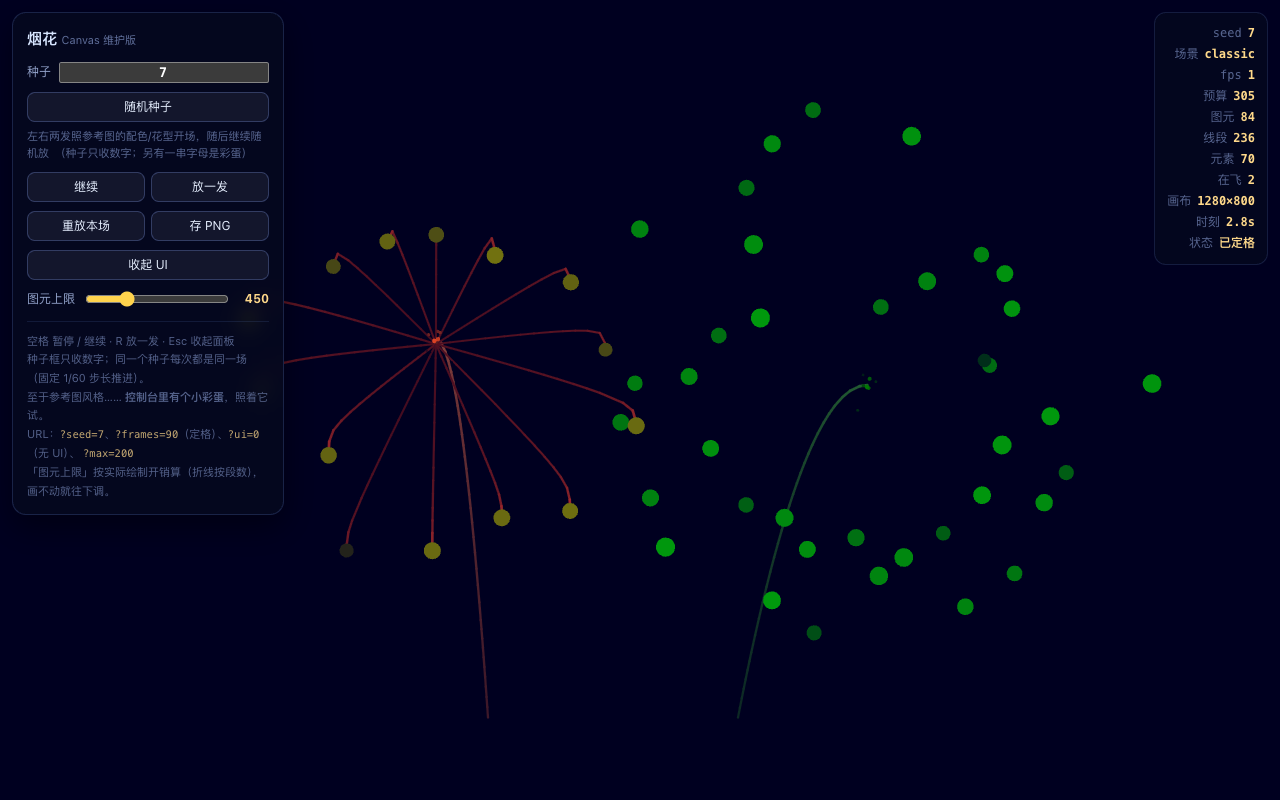
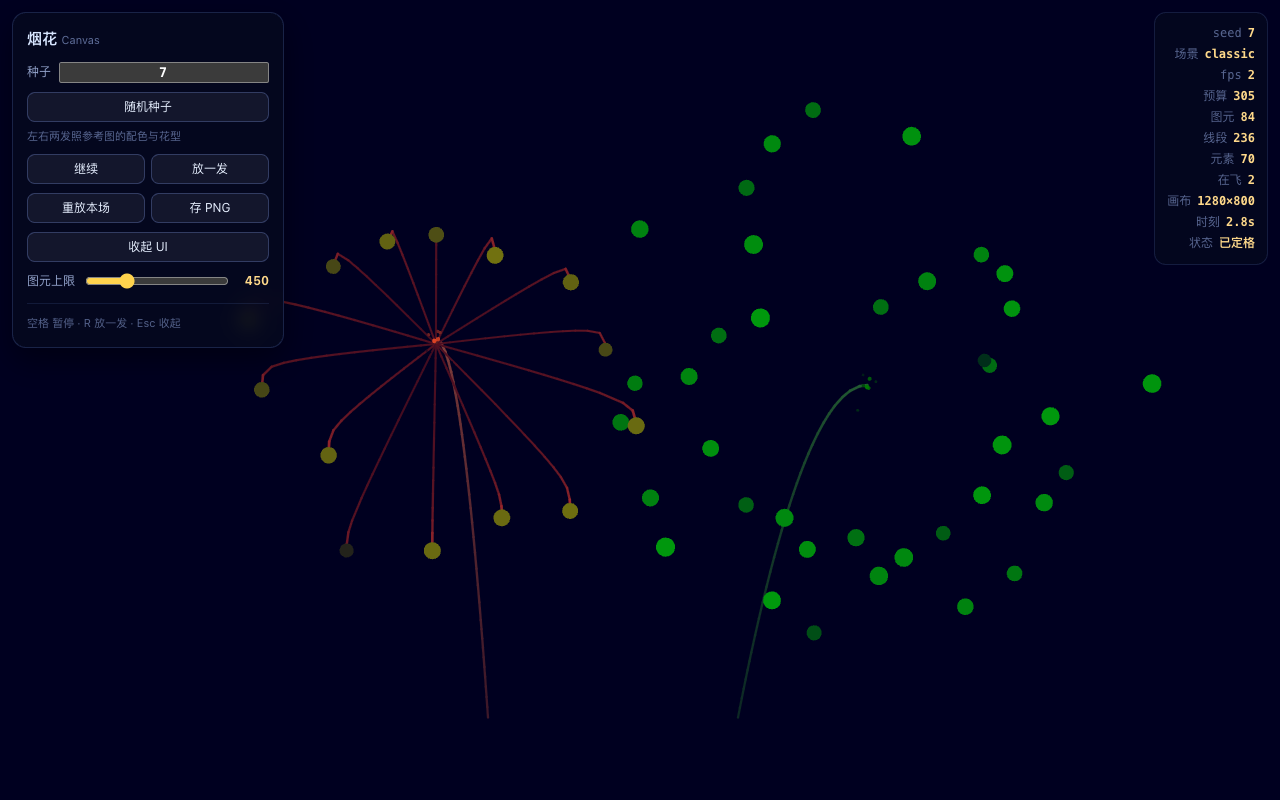
polish: 那个词换成 FIREWORKS；重写并简化文案，不再明说"彩蛋"
- SECRET 改为 FIREWORKS（9 个字母）。提示语里的字母个数是从 SECRET.length 算的，
  测试也从源码里读，所以换词不用改别处。
- 文案重写：把"彩蛋"这层意思从界面与控制台里拿掉，改成随手留的便条口吻。
    控制台：烟花 · Canvas / seed 812934 /
            「种子框只收数字。有一个 9 个字母的词是例外 —— 这里正在放的那个，
              一个一个敲试试。」
    解锁时只打一行「FIREWORKS —— 参考图风格」，不再"🎉 已解锁"。
- 面板瘦身：标题回到「烟花 Canvas」，删掉 URL 参数清单、绘制预算解释与彩蛋提示，
  提示只剩一行「空格 暂停 · R 放一发 · Esc 收起」；场景说明也压缩成一句。
- README 相应重写并收短（173 → 151 行），去掉重复的"彩蛋"叙述，参数与目录更紧凑。
  仍然不写出那个词。
- 校验同步：browser_check 的用例与断言改为从 src/app.js 读那个词（不再写死），
  控制台断言改为"提了字母个数、没写出那个词"；标签从"控制台彩蛋"改成"控制台便条"。

Changed region(s): [[0.0, 0.1562, 0.2188, 0.5], [0.0, 0.5312, 0.1875, 0.625], [0.0625, 0.0312, 0.0938, 0.0625]]

diff --git a/dist/turtle_fireworks.html b/dist/turtle_fireworks.html
@@ -89,7 +89,7 @@
 <canvas id="stage"></canvas>
 
 <aside id="panel">
-  <h1>烟花<span>Canvas 维护版</span></h1>
+  <h1>烟花<span>Canvas</span></h1>
 
   <label>种子
     <input id="seed" type="text" maxlength="16" autocomplete="off" spellcheck="false">
@@ -117,13 +117,7 @@
   </label>
 
   <p class="hint">
-    空格 暂停 / 继续 · R 放一发 · Esc 收起面板<br>
-    种子框<span title="试试往里面敲字母">只收数字</span>；同一个种子每次都是同一场
-    （固定 1/60 步长推进）。<br>
-    至于参考图风格…… <b>控制台里有个小彩蛋</b>，照着它试。<br>
-    URL：<code>?seed=7</code>、<code>?frames=90</code>（定格）、<code>?ui=0</code>（无 UI）、
-    <code>?max=200</code><br>
-    「图元上限」按实际绘制开销算（折线按段数），画不动就往下调。
+    空格 暂停 · R 放一发 · Esc 收起
   </p>
 </aside>
 
@@ -1266,16 +1260,16 @@ setTimeout(function () {
   var DT_CLAMP = 0.06;                   // 单帧最多推进 60ms（同原版）
 
   var SCENES = {
-    classic: ['参考图风格', '左右两发照参考图的配色/花型开场，随后继续随机放'],
-    random: ['纯随机', '全部程序化随机生成的一场烟花秀']
+    classic: ['参考图风格', '左右两发照参考图的配色与花型'],
+    random: ['纯随机', '配色、花型、位置全随机']
   };
 
   /**
-   * 彩蛋密语。种子框**正常只收数字**；字母必须一个字符一个字符敲对才留得下来，
-   * 所以"试探每个字母"本身就是找彩蛋的过程（敲错了那个字符根本进不去）。
-   * 想换彩蛋就改这一行 —— 提示语里的字母个数会自动跟着变。
+   * 种子框只认这一个词。正常只收数字，字母必须一个字符一个字符敲对才留得下来
+   * （敲错的当场被弹回去），所以"一个一个字母试"本身就有反馈。
+   * 换词就改这一行 —— 提示语里的字母个数会自动跟着变。
    */
-  var SECRET = 'TURTLE';
+  var SECRET = 'FIREWORKS';
 
   /** 种子框允许的内容：全数字，或者密语的正确前缀（含空串）。 */
   function seedContentOk(text) {
@@ -1509,10 +1503,7 @@ setTimeout(function () {
     $('budget').value = this.maxGeos;
     $('budget-val').textContent = this.maxGeos;
     $('pause').textContent = this.paused ? '继续' : '暂停';
-    $('scene-help').textContent = SCENES[this.scene][1]
-      + (this.secretFound
-         ? '　🎉 密语已解锁'
-         : '　（种子只收数字；另有一串字母是彩蛋）');
+    $('scene-help').textContent = SCENES[this.scene][1];
     document.title = '烟花 · seed ' + this.seed + ' · ' + this.scene;
     this.applyUiVisibility();
     this.hud();
@@ -1544,9 +1535,9 @@ setTimeout(function () {
   /* --------------------------------------------------------------- 交互 */
 
   /**
-   * 种子框的"逐字符"守卫：正常只收数字；字母只有当它正好接上密语时才留得下来，
-   * 敲错了就当场退回上一个合法内容并抖一下 —— 所以"试探每个字母"是有反馈的，
-   * 找彩蛋就是这么一个字母一个字母试出来的。粘贴也走同一条校验。
+   * 种子框的"逐字符"守卫：正常只收数字；字母只有当它正好接上那个词时才留得下来，
+   * 敲错了就当场退回上一个合法内容并抖一下 —— 所以"一个一个字母试"是有反馈的。
+   * 粘贴也走同一条校验。
    */
   FW.app.App.prototype.bindSeedInput = function () {
     var self = this;
@@ -1556,7 +1547,7 @@ setTimeout(function () {
 
     input.addEventListener('input', function () {
       var text = this.value.toUpperCase();
-      if (!FW.app.seedContentOk(text)) {          // 不是数字、也不是密语的前缀
+      if (!FW.app.seedContentOk(text)) {          // 既不是数字，也不是那个词的前缀
         this.value = lastValid;
         this.classList.remove('reject');
         void this.offsetWidth;                    // 强制重排，动画才会重播
@@ -1567,10 +1558,9 @@ setTimeout(function () {
       }
       lastValid = text;
       this.value = text;
-      if (text === FW.app.SECRET) {               // 敲全了：立刻解锁参考图风格
+      if (text === FW.app.SECRET) {               // 拼全了：换成参考图风格
         self.rebuild(undefined, text);
-        console.log('%c🎉 彩蛋找到了：' + FW.app.SECRET + ' —— 参考图风格已解锁',
-                    'color:#ffd34d;font-weight:700');
+        console.log('%c' + FW.app.SECRET + ' —— 参考图风格', 'color:#ffd34d;font-weight:700');
       }
     });
 
@@ -1622,24 +1612,18 @@ setTimeout(function () {
   /* --------------------------------------------------------------- 启动 */
 
   /**
-   * 控制台彩蛋的引子：说清"种子只收数字"，并给一个**不解谜**的提示（只报字母个数，
-   * 不报内容）—— 剩下的靠往种子框里一个字母一个字母试。
+   * 控制台里那张便条：只交代"种子框认数字"，顺口提一句那个词有几个字母，
+   * 不点破是哪个词（剩下的靠往种子框里一个一个字母试，敲错了会被弹回来）。
    */
-  function consoleEgg(app) {
+  function consoleNote(app) {
     var gold = 'color:#ffd34d;font-weight:600';
     var cyan = 'color:#7fd1ff;font-weight:600';
-    console.log('%c烟花 · Canvas 维护版', gold);
-    console.log('本场 seed: %c' + app.seed + '%c  （数字种子 → 纯随机秀）',
-                cyan, 'color:inherit');
-    if (app.secretFound) {
-      console.log('%c彩蛋已解锁：参考图风格', gold);
-      return;
-    }
-    console.log('彩蛋：种子框正常只收数字。不过有一串 %c' + FW.app.SECRET.length
-      + ' 个字母%c的词能打开参考图风格。',
+    console.log('%c烟花 · Canvas', gold);
+    console.log('seed %c' + app.seed, cyan);
+    if (app.secretFound) return;
+    console.log('种子框只收数字。有一个 %c' + FW.app.SECRET.length
+      + ' 个字母%c的词是例外 —— 这里正在放的那个，一个一个敲试试。',
       'color:#ffd34d', 'color:inherit');
-    console.log('　往种子里一个字母一个字母地敲：%c敲对了会留下来，敲错了会被弹回来%c。'
-      + '（提示：这一版的原版，是拿它画的）', 'color:#9ad', 'color:inherit');
   }
 
   function boot() {
@@ -1649,7 +1633,7 @@ setTimeout(function () {
     });
     FW.app.instance = inst;
     inst.start();
-    consoleEgg(inst);
+    consoleNote(inst);
   }
 
   if (document.readyState === 'loading') {

diff --git a/src/ui.js b/src/ui.js
@@ -38,10 +38,7 @@
     $('budget').value = this.maxGeos;
     $('budget-val').textContent = this.maxGeos;
     $('pause').textContent = this.paused ? '继续' : '暂停';
-    $('scene-help').textContent = SCENES[this.scene][1]
-      + (this.secretFound
-         ? '　🎉 密语已解锁'
-         : '　（种子只收数字；另有一串字母是彩蛋）');
+    $('scene-help').textContent = SCENES[this.scene][1];
     document.title = '烟花 · seed ' + this.seed + ' · ' + this.scene;
     this.applyUiVisibility();
     this.hud();
@@ -73,9 +70,9 @@
   /* --------------------------------------------------------------- 交互 */
 
   /**
-   * 种子框的"逐字符"守卫：正常只收数字；字母只有当它正好接上密语时才留得下来，
-   * 敲错了就当场退回上一个合法内容并抖一下 —— 所以"试探每个字母"是有反馈的，
-   * 找彩蛋就是这么一个字母一个字母试出来的。粘贴也走同一条校验。
+   * 种子框的"逐字符"守卫：正常只收数字；字母只有当它正好接上那个词时才留得下来，
+   * 敲错了就当场退回上一个合法内容并抖一下 —— 所以"一个一个字母试"是有反馈的。
+   * 粘贴也走同一条校验。
    */
   FW.app.App.prototype.bindSeedInput = function () {
     var self = this;
@@ -85,7 +82,7 @@
 
     input.addEventListener('input', function () {
       var text = this.value.toUpperCase();
-      if (!FW.app.seedContentOk(text)) {          // 不是数字、也不是密语的前缀
+      if (!FW.app.seedContentOk(text)) {          // 既不是数字，也不是那个词的前缀
         this.value = lastValid;
         this.classList.remove('reject');
         void this.offsetWidth;                    // 强制重排，动画才会重播
@@ -96,10 +93,9 @@
       }
       lastValid = text;
       this.value = text;
-      if (text === FW.app.SECRET) {               // 敲全了：立刻解锁参考图风格
+      if (text === FW.app.SECRET) {               // 拼全了：换成参考图风格
         self.rebuild(undefined, text);
-        console.log('%c🎉 彩蛋找到了：' + FW.app.SECRET + ' —— 参考图风格已解锁',
-                    'color:#ffd34d;font-weight:700');
+        console.log('%c' + FW.app.SECRET + ' —— 参考图风格', 'color:#ffd34d;font-weight:700');
       }
     });
 
@@ -151,24 +147,18 @@
   /* --------------------------------------------------------------- 启动 */
 
   /**
-   * 控制台彩蛋的引子：说清"种子只收数字"，并给一个**不解谜**的提示（只报字母个数，
-   * 不报内容）—— 剩下的靠往种子框里一个字母一个字母试。
+   * 控制台里那张便条：只交代"种子框认数字"，顺口提一句那个词有几个字母，
+   * 不点破是哪个词（剩下的靠往种子框里一个一个字母试，敲错了会被弹回来）。
    */
-  function consoleEgg(app) {
+  function consoleNote(app) {
     var gold = 'color:#ffd34d;font-weight:600';
     var cyan = 'color:#7fd1ff;font-weight:600';
-    console.log('%c烟花 · Canvas 维护版', gold);
-    console.log('本场 seed: %c' + app.seed + '%c  （数字种子 → 纯随机秀）',
-                cyan, 'color:inherit');
-    if (app.secretFound) {
-      console.log('%c彩蛋已解锁：参考图风格', gold);
-      return;
-    }
-    console.log('彩蛋：种子框正常只收数字。不过有一串 %c' + FW.app.SECRET.length
-      + ' 个字母%c的词能打开参考图风格。',
+    console.log('%c烟花 · Canvas', gold);
+    console.log('seed %c' + app.seed, cyan);
+    if (app.secretFound) return;
+    console.log('种子框只收数字。有一个 %c' + FW.app.SECRET.length
+      + ' 个字母%c的词是例外 —— 这里正在放的那个，一个一个敲试试。',
       'color:#ffd34d', 'color:inherit');
-    console.log('　往种子里一个字母一个字母地敲：%c敲对了会留下来，敲错了会被弹回来%c。'
-      + '（提示：这一版的原版，是拿它画的）', 'color:#9ad', 'color:inherit');
   }
 
   function boot() {
@@ -178,7 +168,7 @@
     });
     FW.app.instance = inst;
     inst.start();
-    consoleEgg(inst);
+    consoleNote(inst);
   }
 
   if (document.readyState === 'loading') {

diff --git a/tools/browser_check.js b/tools/browser_check.js
@@ -47,7 +47,7 @@ const DIST_CASES = [
   { name: 'classic 第1帧', q: 'scene=classic&seed=7&still=1&w=924&h=691', time: 0, segs: false, scene: 'classic' },
   // 彩蛋规则：数字种子 -> 纯随机秀；敲对密语 -> 参考图风格；乱敲的字母 -> 不认
   { name: '数字种子→纯随机', q: 'seed=7&still=1&w=924&h=691', time: 0, segs: false, scene: 'random' },
-  { name: '密语→参考图风格', q: 'seed=TURTLE&still=1&w=924&h=691', time: 0, segs: false, scene: 'classic' },
+  { name: '那个词→参考图风格', q: 'seed=' + readSecret() + '&still=1&w=924&h=691', time: 0, segs: false, scene: 'classic' },
   { name: '乱敲字母→退回数字', q: 'seed=KQXW&still=1&w=924&h=691', time: 0, segs: false, scene: 'random' },
   { name: 'classic 第150帧', q: 'scene=classic&seed=7&frames=150&w=924&h=691', time: 149 * DT, segs: true },
   { name: 'random 第150帧', q: 'scene=random&seed=42&frames=150&w=924&h=691', time: 149 * DT, segs: true },
@@ -232,14 +232,14 @@ async function checkDev(bin) {
     bad += r.problems.length;
     report('开发页出画面', r);
 
-    // B3) 控制台彩蛋：只给"有几个字母"的提示，**不能**泄露密语本身
-    const SECRET = JSON.parse(fs.readFileSync(MANIFEST, 'utf8')) && readSecret();
+    // B3) 控制台便条：只给"有几个字母"，**不能**把那个词本身打出来
+    const SECRET = readSecret();
     const num = await dumpDom(bin, BASE + '/?seed=7&frames=30&w=924&h=691');
-    const numOk = /彩蛋/.test(num.log) && new RegExp(SECRET.length + ' 个字母').test(num.log)
+    const numOk = new RegExp(SECRET.length + ' 个字母').test(num.log)
       && !num.log.includes(SECRET);
     bad += numOk ? 0 : 1;
-    line(numOk, '控制台彩蛋(数字种子)',
-         numOk ? `给了"${SECRET.length} 个字母"的提示、没泄露密语` : '提示不符合预期或泄露了密语');
+    line(numOk, '控制台便条',
+         numOk ? `提了"${SECRET.length} 个字母"、没写出那个词` : '文案不符合预期或写出了那个词');
     if (!numOk) console.log('        ' + consoleLines(num.log));
 
     // B4) 逐字符守卫：在真浏览器里一个字母一个字母敲（夹具页驱动，不用 CDP）
@@ -249,9 +249,9 @@ async function checkDev(bin) {
     bad += okTyping ? 0 : 1;
     if (okTyping) {
       const detail = JSON.parse(m[1].replace(/^probe-ok\s*/, ''));
-      line(true, '逐字符敲密语', detail.steps.join('；'));
+      line(true, '逐字符拼词', detail.steps.join('；'));
     } else {
-      line(false, '逐字符敲密语',
+      line(false, '逐字符拼词',
            m ? JSON.parse(m[1].replace(/^probe-fail\s*/, '')).problems.join('；') : '夹具页没给出结果');
     }
   } finally {

diff --git a/src/app.js b/src/app.js
@@ -17,16 +17,16 @@
   var DT_CLAMP = 0.06;                   // 单帧最多推进 60ms（同原版）
 
   var SCENES = {
-    classic: ['参考图风格', '左右两发照参考图的配色/花型开场，随后继续随机放'],
-    random: ['纯随机', '全部程序化随机生成的一场烟花秀']
+    classic: ['参考图风格', '左右两发照参考图的配色与花型'],
+    random: ['纯随机', '配色、花型、位置全随机']
   };
 
   /**
-   * 彩蛋密语。种子框**正常只收数字**；字母必须一个字符一个字符敲对才留得下来，
-   * 所以"试探每个字母"本身就是找彩蛋的过程（敲错了那个字符根本进不去）。
-   * 想换彩蛋就改这一行 —— 提示语里的字母个数会自动跟着变。
+   * 种子框只认这一个词。正常只收数字，字母必须一个字符一个字符敲对才留得下来
+   * （敲错的当场被弹回去），所以"一个一个字母试"本身就有反馈。
+   * 换词就改这一行 —— 提示语里的字母个数会自动跟着变。
    */
-  var SECRET = 'TURTLE';
+  var SECRET = 'FIREWORKS';
 
   /** 种子框允许的内容：全数字，或者密语的正确前缀（含空串）。 */
   function seedContentOk(text) {

diff --git a/index.html b/index.html
@@ -84,7 +84,7 @@
 <canvas id="stage"></canvas>
 
 <aside id="panel">
-  <h1>烟花<span>Canvas 维护版</span></h1>
+  <h1>烟花<span>Canvas</span></h1>
 
   <label>种子
     <input id="seed" type="text" maxlength="16" autocomplete="off" spellcheck="false">
@@ -112,13 +112,7 @@
   </label>
 
   <p class="hint">
-    空格 暂停 / 继续 · R 放一发 · Esc 收起面板<br>
-    种子框<span title="试试往里面敲字母">只收数字</span>；同一个种子每次都是同一场
-    （固定 1/60 步长推进）。<br>
-    至于参考图风格…… <b>控制台里有个小彩蛋</b>，照着它试。<br>
-    URL：<code>?seed=7</code>、<code>?frames=90</code>（定格）、<code>?ui=0</code>（无 UI）、
-    <code>?max=200</code><br>
-    「图元上限」按实际绘制开销算（折线按段数），画不动就往下调。
+    空格 暂停 · R 放一发 · Esc 收起
   </p>
 </aside>
 
